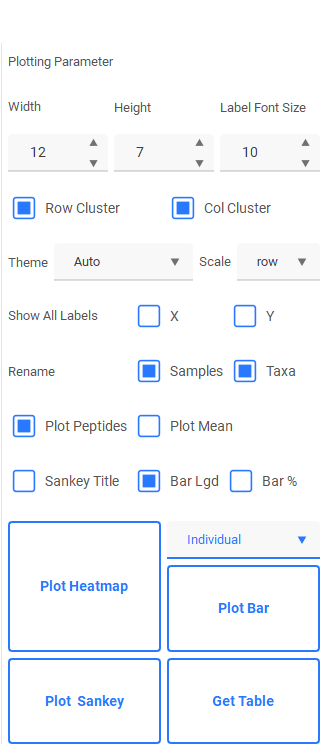
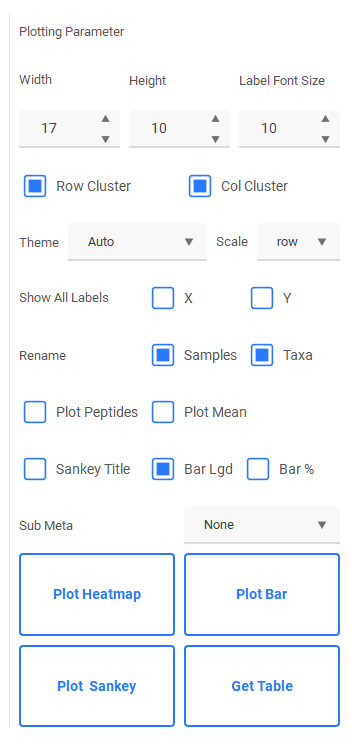
New: Add Sub Meta option for the basic Heatmap plot.

diff --git a/utils/MetaX_GUI/Ui_MainWindow.py b/utils/MetaX_GUI/Ui_MainWindow.py
@@ -1,6 +1,6 @@
 # -*- coding: utf-8 -*-
 
-# Form implementation generated from reading ui file 'c:\Users\Qing\OneDrive - University of Ottawa\code\TaxaFunc\MetaX\utils\MetaX_GUI\MainWindow.ui'
+# Form implementation generated from reading ui file 'c:\Users\max\OneDrive - University of Ottawa\code\TaxaFunc\MetaX\utils\MetaX_GUI\MainWindow.ui'
 #
 # Created by: PyQt5 UI code generator 5.15.9
 #
@@ -145,7 +145,7 @@ class Ui_metaX_main(object):
         self.toolBox_2.setMaximumSize(QtCore.QSize(1677, 16777215))
         self.toolBox_2.setObjectName("toolBox_2")
         self.page_2 = QtWidgets.QWidget()
-        self.page_2.setGeometry(QtCore.QRect(0, 0, 496, 377))
+        self.page_2.setGeometry(QtCore.QRect(0, 0, 496, 373))
         self.page_2.setObjectName("page_2")
         self.gridLayout_27 = QtWidgets.QGridLayout(self.page_2)
         self.gridLayout_27.setObjectName("gridLayout_27")
@@ -1126,15 +1126,6 @@ class Ui_metaX_main(object):
         self.pushButton_basic_heatmap_sankey_plot.setSizePolicy(sizePolicy)
         self.pushButton_basic_heatmap_sankey_plot.setObjectName("pushButton_basic_heatmap_sankey_plot")
         self.gridLayout_39.addWidget(self.pushButton_basic_heatmap_sankey_plot, 2, 0, 1, 1)
-        self.pushButton_basic_heatmap_plot = QtWidgets.QPushButton(self.tab_13)
-        self.pushButton_basic_heatmap_plot.setEnabled(False)
-        sizePolicy = QtWidgets.QSizePolicy(QtWidgets.QSizePolicy.Preferred, QtWidgets.QSizePolicy.Preferred)
-        sizePolicy.setHorizontalStretch(0)
-        sizePolicy.setVerticalStretch(0)
-        sizePolicy.setHeightForWidth(self.pushButton_basic_heatmap_plot.sizePolicy().hasHeightForWidth())
-        self.pushButton_basic_heatmap_plot.setSizePolicy(sizePolicy)
-        self.pushButton_basic_heatmap_plot.setObjectName("pushButton_basic_heatmap_plot")
-        self.gridLayout_39.addWidget(self.pushButton_basic_heatmap_plot, 0, 0, 2, 1)
         self.pushButton_basic_bar_plot = QtWidgets.QPushButton(self.tab_13)
         self.pushButton_basic_bar_plot.setEnabled(False)
         sizePolicy = QtWidgets.QSizePolicy(QtWidgets.QSizePolicy.Preferred, QtWidgets.QSizePolicy.Preferred)
@@ -1147,6 +1138,18 @@ class Ui_metaX_main(object):
         self.comboBox_3dbar_sub_meta = QtWidgets.QComboBox(self.tab_13)
         self.comboBox_3dbar_sub_meta.setObjectName("comboBox_3dbar_sub_meta")
         self.gridLayout_39.addWidget(self.comboBox_3dbar_sub_meta, 0, 1, 1, 1)
+        self.pushButton_basic_heatmap_plot = QtWidgets.QPushButton(self.tab_13)
+        self.pushButton_basic_heatmap_plot.setEnabled(False)
+        sizePolicy = QtWidgets.QSizePolicy(QtWidgets.QSizePolicy.Preferred, QtWidgets.QSizePolicy.Preferred)
+        sizePolicy.setHorizontalStretch(0)
+        sizePolicy.setVerticalStretch(0)
+        sizePolicy.setHeightForWidth(self.pushButton_basic_heatmap_plot.sizePolicy().hasHeightForWidth())
+        self.pushButton_basic_heatmap_plot.setSizePolicy(sizePolicy)
+        self.pushButton_basic_heatmap_plot.setObjectName("pushButton_basic_heatmap_plot")
+        self.gridLayout_39.addWidget(self.pushButton_basic_heatmap_plot, 1, 0, 1, 1)
+        self.label_164 = QtWidgets.QLabel(self.tab_13)
+        self.label_164.setObjectName("label_164")
+        self.gridLayout_39.addWidget(self.label_164, 0, 0, 1, 1)
         self.gridLayout_23.addLayout(self.gridLayout_39, 6, 9, 1, 1)
         self.line_8 = QtWidgets.QFrame(self.tab_13)
         self.line_8.setFrameShape(QtWidgets.QFrame.VLine)
@@ -4261,7 +4264,7 @@ class Ui_metaX_main(object):
         self.statusbar.setObjectName("statusbar")
         metaX_main.setStatusBar(self.statusbar)
         self.menuBar = QtWidgets.QMenuBar(metaX_main)
-        self.menuBar.setGeometry(QtCore.QRect(0, 0, 1059, 21))
+        self.menuBar.setGeometry(QtCore.QRect(0, 0, 1059, 23))
         self.menuBar.setObjectName("menuBar")
         self.menuTools = QtWidgets.QMenu(self.menuBar)
         self.menuTools.setObjectName("menuTools")
@@ -4321,9 +4324,9 @@ class Ui_metaX_main(object):
 
         self.retranslateUi(metaX_main)
         self.stackedWidget.setCurrentIndex(0)
-        self.tabWidget_TaxaFuncAnalyzer.setCurrentIndex(6)
+        self.tabWidget_TaxaFuncAnalyzer.setCurrentIndex(3)
         self.toolBox_2.setCurrentIndex(0)
-        self.tabWidget_4.setCurrentIndex(0)
+        self.tabWidget_4.setCurrentIndex(1)
         self.tabWidget_3.setCurrentIndex(3)
         self.tabWidget.setCurrentIndex(0)
         self.tabWidget_2.setCurrentIndex(0)
@@ -4355,6 +4358,7 @@ class Ui_metaX_main(object):
         self.checkBox_pca_if_show_lable.clicked['bool'].connect(self.checkBox_sunburst_show_all_lables.setEnabled) # type: ignore
         self.checkBox_pca_if_show_lable.clicked['bool'].connect(self.doubleSpinBox_basic_pca_label_font_transparency.setEnabled) # type: ignore
         self.checkBox_basic_in_condtion.clicked['bool'].connect(self.comboBox_basic_condition_group.setEnabled) # type: ignore
+        self.checkBox_basic_heatmap_plot_mean.clicked['bool'].connect(self.comboBox_3dbar_sub_meta.setDisabled) # type: ignore
         QtCore.QMetaObject.connectSlotsByName(metaX_main)
         metaX_main.setTabOrder(self.comboBox_taxa_level_to_stast, self.toolButton_meta_table_help)
         metaX_main.setTabOrder(self.toolButton_meta_table_help, self.comboBox_function_to_stast)
@@ -4562,9 +4566,10 @@ class Ui_metaX_main(object):
         self.radioButton_basic_heatmap_sample.setText(_translate("metaX_main", "Sample"))
         self.pushButton_basic_heatmap_get_table.setText(_translate("metaX_main", "Get Table"))
         self.pushButton_basic_heatmap_sankey_plot.setText(_translate("metaX_main", "Plot  Sankey"))
-        self.pushButton_basic_heatmap_plot.setText(_translate("metaX_main", "Plot Heatmap"))
         self.pushButton_basic_bar_plot.setText(_translate("metaX_main", "Plot Bar"))
         self.comboBox_3dbar_sub_meta.setToolTip(_translate("metaX_main", "Sub Meta for Bar Plot"))
+        self.pushButton_basic_heatmap_plot.setText(_translate("metaX_main", "Plot Heatmap"))
+        self.label_164.setText(_translate("metaX_main", "Sub Meta "))
         self.checkBox_basic_heatmap_in_condition.setText(_translate("metaX_main", "In Condition"))
         self.label_34.setText(_translate("metaX_main", "List for Plotting"))
         self.pushButton_basic_heatmap_add.setToolTip(_translate("metaX_main", "Add selected item to the drawing box"))

diff --git a/utils/GUI.py b/utils/GUI.py
@@ -308,7 +308,7 @@ class MetaXGUI(Ui_MainWindow.Ui_metaX_main,QtStyleTools):
         # set change event
         self.checkBox_create_protein_table.stateChanged.connect(self.change_event_checkBox_create_protein_table)
         self.comboBox_method_of_protein_inference.currentIndexChanged.connect(self.update_method_of_protein_inference)
-        
+        self.comboBox_3dbar_sub_meta.currentIndexChanged.connect(self.change_event_comboBox_3dbar_sub_meta)
 
         ## Basic Stat
         self.pushButton_plot_pca_sns.clicked.connect(lambda: self.plot_basic_info_sns('pca'))
@@ -709,6 +709,19 @@ class MetaXGUI(Ui_MainWindow.Ui_metaX_main,QtStyleTools):
         self.settings.setValue("protein_infer_greedy_mode", method)
         print(f"Protein infering razor mode changed to: {method}")
     
+    def change_event_comboBox_3dbar_sub_meta(self):
+        # when the sub_meta comboBox is not None, the mean plot is not available
+        if self.comboBox_3dbar_sub_meta.currentText() != 'None':
+            self.checkBox_basic_heatmap_plot_mean.setEnabled(False)
+        else:
+            self.checkBox_basic_heatmap_plot_mean.setEnabled(True)
+        
+        # if self.checkBox_basic_heatmap_plot_mean.isChecked():
+        #     self.comboBox_3dbar_sub_meta.setEnabled(False)
+        # else:
+        #     self.comboBox_3dbar_sub_meta.setEnabled(True)
+
+        
     ###############   basic function End   ###############
     
     
@@ -2074,26 +2087,6 @@ class MetaXGUI(Ui_MainWindow.Ui_metaX_main,QtStyleTools):
 
     #### Help info function End ####
 
-
-    #### Deprecated Function ####
-    #### TaxaFuncAnalyzer Function ####
-    # def check_tables_for_taxaFuncAnalyzer(self, taxafunc_path, meta_path):
-    #     try:
-    #         taxafunc_table = pd.read_csv(taxafunc_path, sep='\t', index_col=0,header=0)
-    #         meta_table = pd.read_csv(meta_path, sep='\t', index_col=0,header=0)
-    #         taxafunc_column_names = taxafunc_table.columns.tolist()
-    #         if 'Taxon_prop' not in taxafunc_column_names:
-    #             QMessageBox.warning(self.MainWindow, 'Warning', 'TaxaFunc table looks like not correct, please check!')
-    #             return False
-    #         meta_column_names = meta_table.columns.tolist()
-    #         if len(meta_column_names) < 1:
-    #             print(meta_column_names)
-    #             QMessageBox.warning(self.MainWindow, 'Warning', 'The meta table only has one column, please check!\n\nPlease make sure the first column is sample name and the following columns are meta information!\n\n And make sure the meta table is TSV format (table separated by tab)\n\nPlease check!')
-    #             return False
-    #     except Exception as e:
-    #         QMessageBox.warning(self.MainWindow, 'Warning', 'Please check your Files!\n\n' + str(e))
-    #         return False
-    #### Deprecated Function ####
      
     def show_taxaFuncAnalyzer_init(self):
         original_row_num = self.tfa.original_row_num
@@ -2804,8 +2797,6 @@ class MetaXGUI(Ui_MainWindow.Ui_metaX_main,QtStyleTools):
         self.comboBox_others_taxa.addItem('')
         self.comboBox_others_taxa.addItems(self.taxa_list_linked)
     
-
-    
     
     def update_combobox_and_label(self, current_text, type, label, comboBox):
         if not current_text:
@@ -3263,7 +3254,6 @@ class MetaXGUI(Ui_MainWindow.Ui_metaX_main,QtStyleTools):
             df_type = self.comboBox_basic_table.currentText()
             self.add_a_list_to_list_window(df_type, aim_list='basic_heatmap', str_list=items, input_mode = False)
 
-
     
     def add_a_list_to_co_expr(self):
         df_type = self.comboBox_co_expr_table.currentText()
@@ -3461,7 +3451,7 @@ class MetaXGUI(Ui_MainWindow.Ui_metaX_main,QtStyleTools):
                                                          scale=scale, row_cluster=row_cluster, col_cluster=col_cluster, 
                                                          cmap=cmap, rename_taxa=rename_taxa, font_size=font_size,
                                                          show_all_labels=show_all_labels, rename_sample=rename_sample,
-                                                         plot_mean = plot_mean)
+                                                         plot_mean = plot_mean, sub_meta = self.comboBox_3dbar_sub_meta.currentText())
                                                          
             
             elif plot_type == 'bar':
@@ -3888,8 +3878,6 @@ class MetaXGUI(Ui_MainWindow.Ui_metaX_main,QtStyleTools):
             self.logger.write_log(f'save_and_show_js_plot error: {error_message}', 'e')
             QMessageBox.warning(self.MainWindow, 'Error', f'{error_message}')
 
-        
-        
     
     def peptide_query(self):
         if self.tfa.any_df_mode:
@@ -4016,8 +4004,6 @@ class MetaXGUI(Ui_MainWindow.Ui_metaX_main,QtStyleTools):
         peptide_num = self.spinBox_overview_tax_plot_new_window_peptide_num.value()
         self.show_message('Plotting taxa number...')
         BasicPlot(self.tfa).plot_taxa_number(peptide_num=peptide_num, theme=theme, res_type='show', font_size = font_size)
-
-
         
 
     def plot_peptide_num_in_func(self):
@@ -4041,8 +4027,6 @@ class MetaXGUI(Ui_MainWindow.Ui_metaX_main,QtStyleTools):
             
             self.mat_widget_plot_peptide_num_in_func = MatplotlibWidget(pic.get_figure())
             self.verticalLayout_overview_func.addWidget(self.mat_widget_plot_peptide_num_in_func)
-
-   
 
     
     def plot_basic_info_sns(self, method:str ='pca'):

diff --git a/utils/TaxaFuncPloter/heatmap_plot.py b/utils/TaxaFuncPloter/heatmap_plot.py
@@ -290,10 +290,11 @@ class HeatmapPlot:
     def plot_basic_heatmap(self,  df, title = 'Heatmap',fig_size:tuple|None = None, 
                     scale = None, col_cluster:bool = True, row_cluster:bool = True, 
                     cmap:str|None = None, rename_taxa:bool = True, font_size:int = 10,
-                    show_all_labels:tuple = (False, False), rename_sample:bool = True, plot_mean:bool = False
+                    show_all_labels:tuple = (False, False), rename_sample:bool = True, plot_mean:bool = False,
+                    sub_meta: str = "None"
                     ):
         
-        if plot_mean:
+        if plot_mean and sub_meta == 'None': # if sub_meta is not None, plot_mean is False
             df = self.tfa.BasicStats.get_stats_mean_df_by_group(df)
             rename_sample = False
             
@@ -322,11 +323,31 @@ class HeatmapPlot:
         if fig_size is None:
             fig_size = (30,30)
 
+        if sub_meta != 'None':
+            # group_list = (
+            #     [self.tfa.get_group_of_a_sample(i, sub_meta) for i in mat.columns]
+            #     if not plot_mean
+            #     else mat.columns.tolist()
+            # )
+            sample_groups = {sample: self.tfa.get_group_of_a_sample(sample, self.tfa.meta_name) for sample in mat.columns}
+            sub_groups = {sample: self.tfa.get_group_of_a_sample(sample, sub_meta) for sample in mat.columns}
 
-        if rename_sample:
-            mat, group_list = self.tfa.add_group_name_for_sample(mat)
+            # 合并同一meta和submeta的样本，计算平均值
+            grouped_data = mat.T.groupby([sample_groups, sub_groups]).mean().T
+            
+            # group_list is the sub_meta group
+            group_list = [i[1] for i in grouped_data.columns] if not plot_mean else grouped_data.columns.tolist()
+            
+            # convert multi-index to single index
+            grouped_data.columns = ['_'.join(col).strip() for col in grouped_data.columns.values]
+            
+            mat = grouped_data
+            
         else:
-            group_list = [self.tfa.get_group_of_a_sample(i) for i in mat.columns] if not plot_mean else mat.columns.tolist()
+            if rename_sample:
+                mat, group_list = self.tfa.add_group_name_for_sample(mat)
+            else:
+                group_list = [self.tfa.get_group_of_a_sample(i) for i in mat.columns] if not plot_mean else mat.columns.tolist()
         
         color_list = self.assign_colors(group_list)
 

diff --git a/utils/version.py b/utils/version.py
@@ -1,2 +1,2 @@
-__version__ = '1.108.0'
+__version__ = '1.108.1'
 API_version = '1'

diff --git a/Docs/MetaX_Cookbook.md b/Docs/MetaX_Cookbook.md
@@ -230,19 +230,20 @@ Click **Create Proteins Intensity Table** to sum peptides to proteins if the Pro
 - **Occam's Razor**, **Anti-Razor** and **Rank:** Methods available for inferring shared peptides.
   - Razor:
     1. Build a minimal set of proteins to cover all peptides.
-    2. For each peptide, choose the protein which has most peptides (if multiple proteins have the same number of peptides, share intensity to them).
+    2. For each peptide, choose the protein with the most peptides (if multiple proteins have the same number of peptides, share intensity to them).
   - Anti-Razor:
-    - All proteins are shared the intensity of each peptide.
+    - All proteins share the intensity of each peptide.
   - Rank:
     1. Build the rank of proteins.
     2. Choose the protein with a higher rank for the shared peptide.
-
-
-- **Methods to Build Protein Rank:**
-  - unique_counts: Use the counts of proteins inferred by unique peptides.
-  - all_count: Use the counts of all proteins.
-  - unique_intensity: Use the intensity of proteins inferred by unique peptides.
-  - shared_intensity: Use the intensity divided by the number of shared peptides for each protein.
+    
+    
+    - **Methods to Build Protein Rank:**
+      - unique_counts: Use the counts of proteins inferred by unique peptides.
+      - all_count: Use the counts of all proteins.
+      - unique_intensity: Use the intensity of proteins inferred by unique peptides.
+      - shared_intensity: Use the intensity divided by the number of shared peptides for each protein.
+    
 
 ### Data preprocessing
 
@@ -424,6 +425,8 @@ We can select <u>**meta**</u> <u>**groups**</u> or <u>**samples**</u> (default a
   - **Rename Samples**: Add group info to each sample name
   - **Rename Taxa**: Only keep the last taxonomic level to reduce to name
   - **Plot Mean**: calculate the mean of each group before plotting
+    
+  - **Sub Meta:** select a second meta, then combine two meta by mean for Heatmap and 3D bar plot
     - **<u>For Heatmap</u>**
       - **Theme**: The theme of the heatmap
       - **scale**: Scale method of the heatmap

diff --git a/Docs/ChangeLog.md b/Docs/ChangeLog.md
@@ -1,3 +1,9 @@
+# Version: 1.108.1
+## Date: 2024-06-27
+### Changes:
+- New: Add Sub Meta option for the basic Heatmap plot.
+
+
 # Version: 1.108.0
 ## Date: 2024-06-27
 ### Changes:
